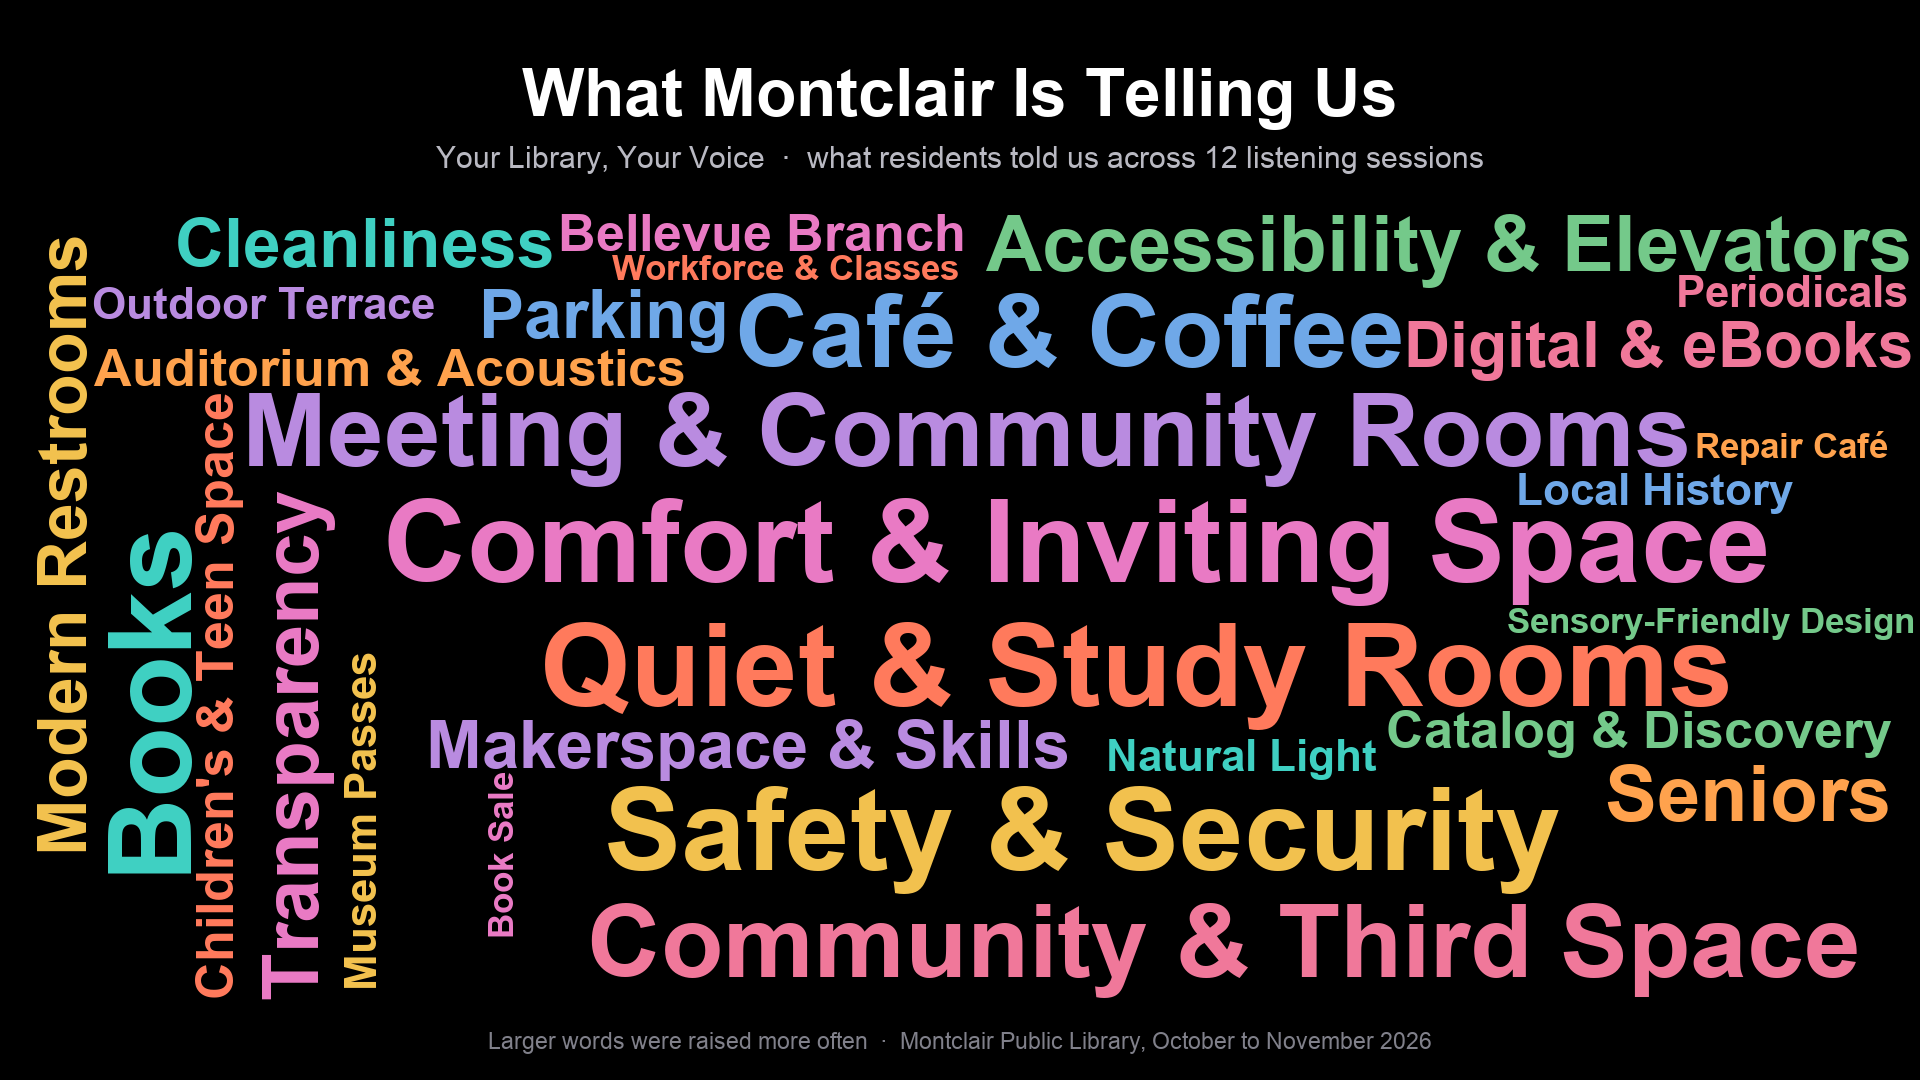
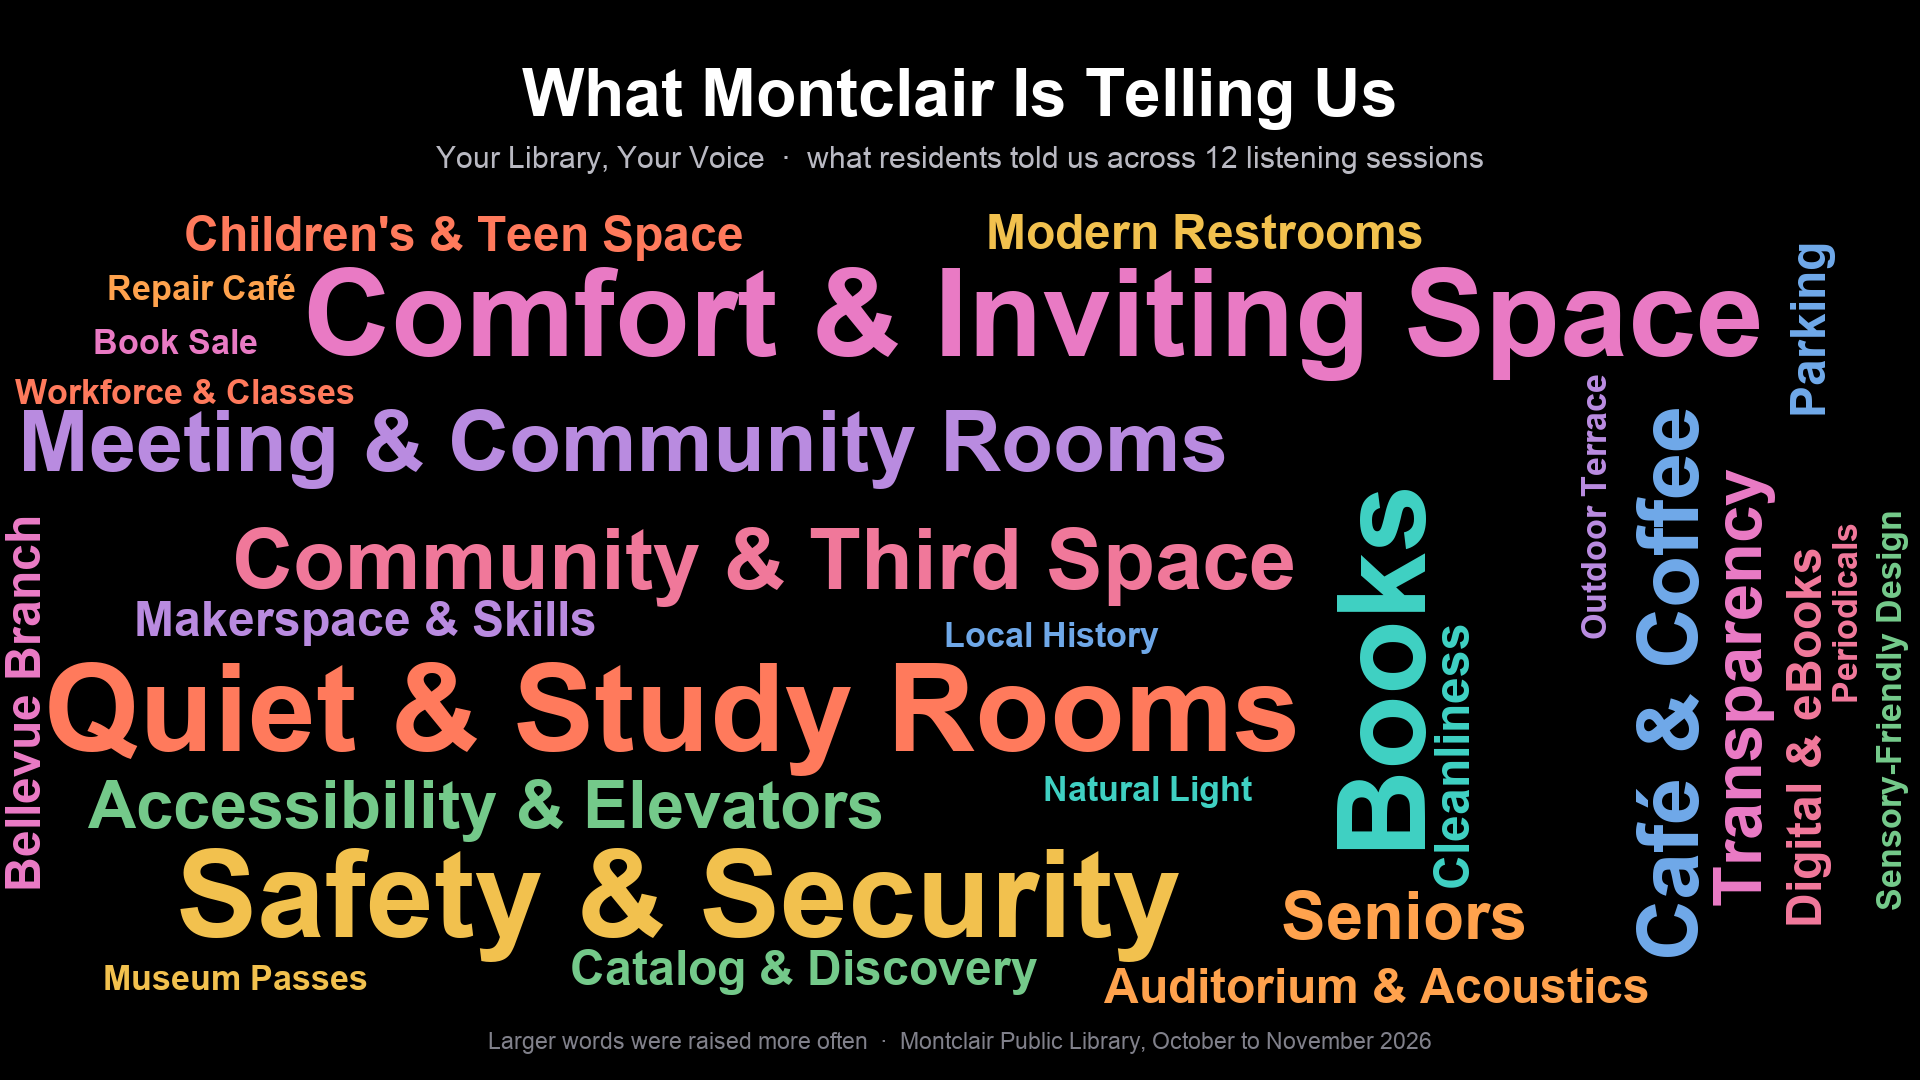
Word cloud: make the size tiers distinct again
relative_scaling=0.5 was flattening the sizes so XL and L looked identical.
Set relative_scaling to 1.0 (size tracks weight) and widen the tier gaps, so
the top themes are clearly largest while smaller ones stay legible. Bump the
image cache tag to v=3.

diff --git a/updates/2026-11-more-chances-to-be-heard.html b/updates/2026-11-more-chances-to-be-heard.html
@@ -14,7 +14,7 @@
 <meta property="og:title" content="More Chances to Be Heard">
 <meta property="og:description" content="The first round of Your Library, Your Voice listening sessions has wrapped. See what residents told us, and join one of nine new sessions, including late-evening virtual ones for parents.">
 <meta property="og:url" content="https://montclairlibrary.github.io/renovation/updates/2026-11-more-chances-to-be-heard.html">
-<meta property="og:image" content="https://montclairlibrary.github.io/renovation/listening-sessions-wordcloud.png?v=2">
+<meta property="og:image" content="https://montclairlibrary.github.io/renovation/listening-sessions-wordcloud.png?v=3">
 <meta property="og:image:width" content="1920">
 <meta property="og:image:height" content="1080">
 <meta property="og:image:alt" content="A word cloud of what Montclair residents told us across 12 listening sessions, with Quiet and Study Rooms, Books, Safety and Security, and Comfort and Inviting Space the largest.">
@@ -22,7 +22,7 @@
 <meta name="twitter:card" content="summary_large_image">
 <meta name="twitter:title" content="More Chances to Be Heard">
 <meta name="twitter:description" content="The first round of listening sessions wrapped. See what we heard, and join one of nine new sessions.">
-<meta name="twitter:image" content="https://montclairlibrary.github.io/renovation/listening-sessions-wordcloud.png?v=2">
+<meta name="twitter:image" content="https://montclairlibrary.github.io/renovation/listening-sessions-wordcloud.png?v=3">
 
 <link rel="preconnect" href="https://fonts.googleapis.com">
 <link rel="preconnect" href="https://fonts.gstatic.com" crossorigin>
@@ -64,11 +64,11 @@
         <p>Across twelve sessions, a clear set of priorities surfaced again and again. The word cloud below is a snapshot: the larger the words, the more often residents raised them.</p>
       </div>
       <figure class="wc-figure">
-        <img src="../listening-sessions-wordcloud.png?v=2" alt="A word cloud of what Montclair residents told us across 12 listening sessions. The largest themes are Quiet and Study Rooms, Books, Safety and Security, and Comfort and Inviting Space, followed by Café and Coffee, Meeting and Community Rooms, Seniors, Accessibility, Transparency, and many more.">
+        <img src="../listening-sessions-wordcloud.png?v=3" alt="A word cloud of what Montclair residents told us across 12 listening sessions. The largest themes are Quiet and Study Rooms, Books, Safety and Security, and Comfort and Inviting Space, followed by Café and Coffee, Meeting and Community Rooms, Seniors, Accessibility, Transparency, and many more.">
         <figcaption>What Montclair is telling us, drawn from 12 Your Library, Your Voice listening sessions.</figcaption>
       </figure>
       <div class="wc-actions">
-        <a class="btn btn-outline" href="../listening-sessions-wordcloud.png?v=2" download>Download this graphic (PNG)</a>
+        <a class="btn btn-outline" href="../listening-sessions-wordcloud.png?v=3" download>Download this graphic (PNG)</a>
       </div>
 
       <h3 class="arch-subhead">Why we're adding more</h3>
